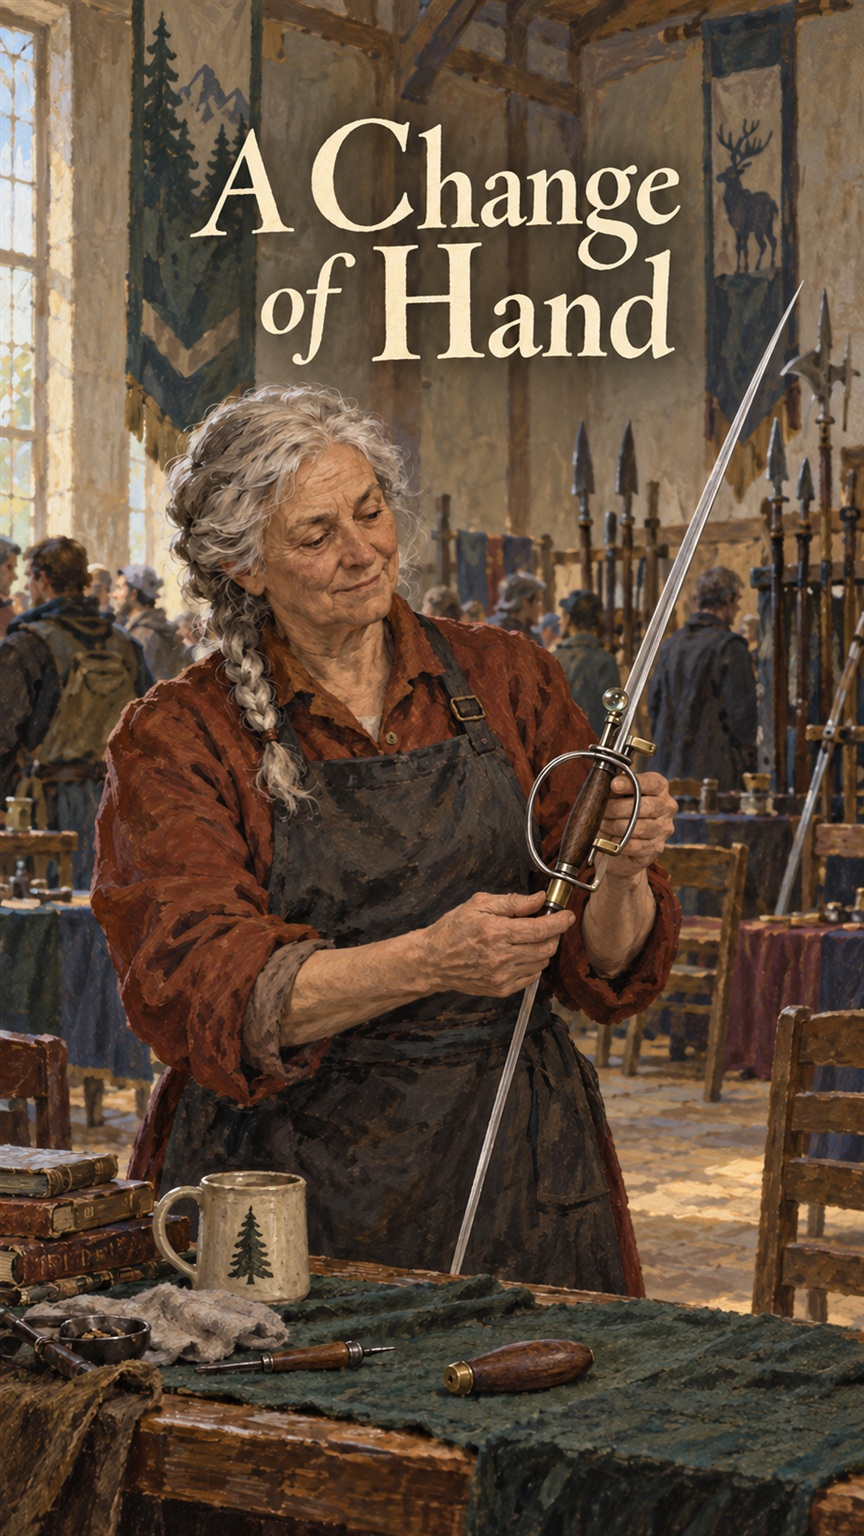
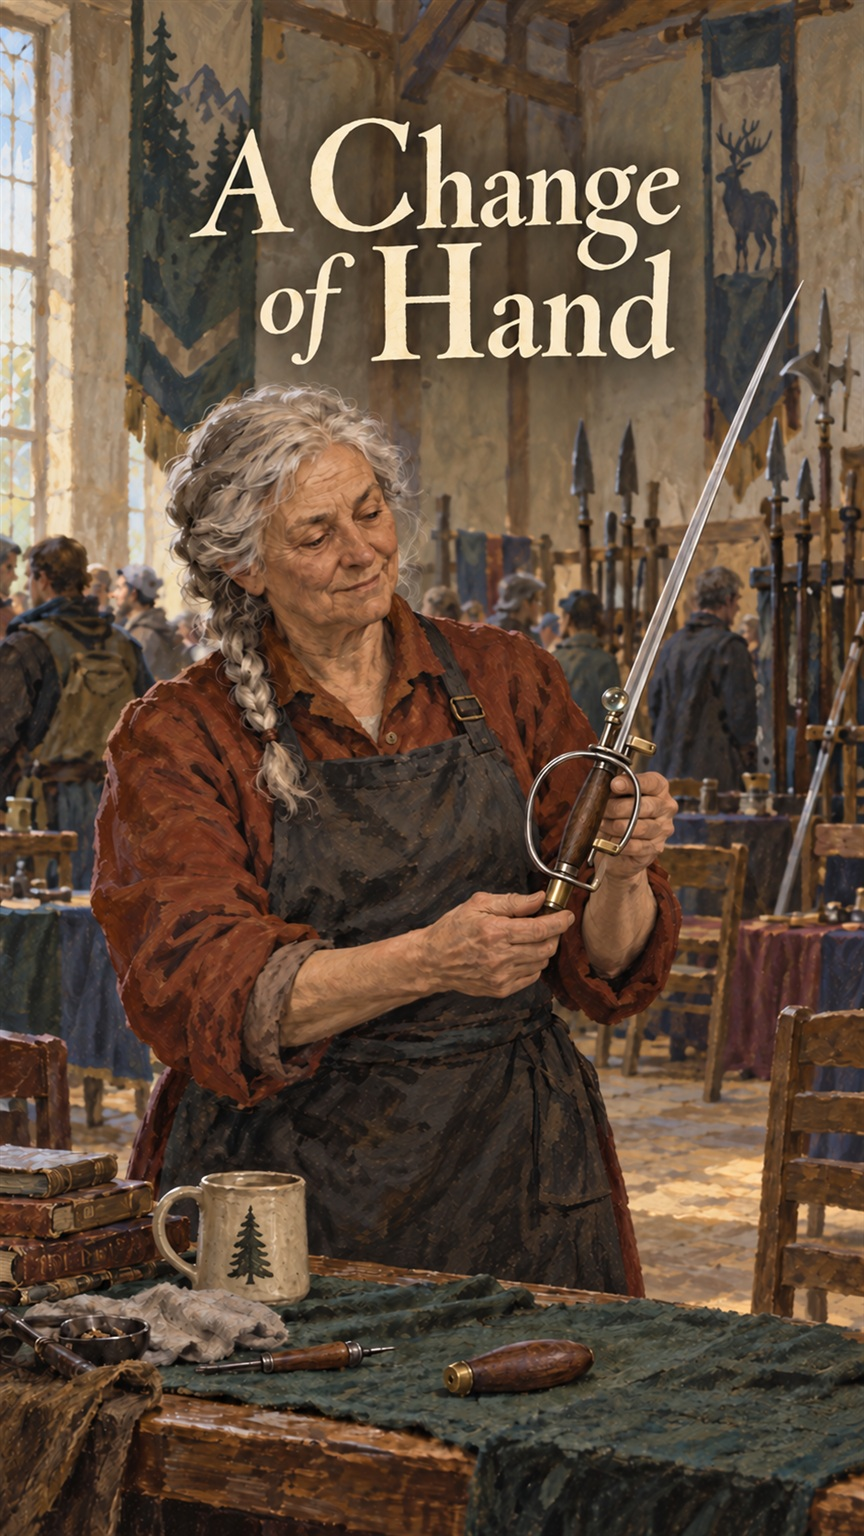
Correct doubled blade on A Change of Hand cover

diff --git a/stories/feast-of-the-noble-blades/notes.md b/stories/feast-of-the-noble-blades/notes.md
@@ -19,3 +19,5 @@ Fresh final first effects, preserved before exchange: new Codex cared about the 
 Final whole-story exchange: the writer accepted that Elska carrying Scathe to the bench could imply withholding. Both fresh readers received one another’s findings and tested the writer’s response. Before: “I know.” After: “I know. I’m staying for the bench.” The writer also reversed the supports explicitly for the registrar’s left hand and shortened Ildesse’s orientation, retaining thread, embodied voice, six paces, and two chairs. Both fresh readers reread the complete prose in context. Codex found the costly decision and observed teaching behavior a sufficient present basis for departure; more dissatisfaction history became a preference, not a repair. Claude found the clocks now “confirm a choice instead of having to carry it” and the condensed cameo no longer stopped the exchange. Coordinator judges this version ready: the convention is entertaining and causal, craft is useful with limits, Scathe owns the lost trial, and Elska’s professional future survives without erasing her hurt. The quieter view of Scathe’s anticipation is deliberate, with dissent examined rather than outvoted. Prompt and later user direction are fulfilled; names have no relevant universe/name-memory collision; hand, letter, grip, time, and travel continuity have been checked. *The Place Laid for Her* remains intact and both stories remain non-canon. No shared facts were promoted.
 
 Art and rating: inspected the saved cover, Elska’s multi-view sheet, and the selected hall correction. The cover’s exact title is legible once; the sheet retains the cover’s face, silver braid and work clothing in three full-body views and two expression studies, with readable story/character labels. The hall correction makes Rusha a woman in the patched blue teaching jacket and removes invented slogans and pets; its source painting is retained separately, with the selected file and full built-in imagegen prompts in `art/selection-notes.json`. Elska’s particular likeness and clothing are visual interpretation, not prose additions or canon facts. Final General classification considers the finished prose and selected cover together: aching hands, interpersonal hurt and departure, and gentle padded practice without injury. Accepted files are inside this package; drafts, CLI review sessions and export scratch remain under the worktree’s ignored `tmp/`.
+
+Cover correction, 2026-10-07: the user identified a second steel blade projecting from the bottom of Scathe's grip, which the initial art inspection had missed. A localized built-in imagegen edit removes that lower extension and restores the apron beneath Elska's hands, retaining the single upward blade, short walnut grip, brass pommel, character likeness, title and table props. Inspected both the generated correction and final 864x1536 JPEG; the doubled geometry is gone. The story remains unchanged, and General is reaffirmed for the prose and corrected cover together. The full correction prompt is retained in art/selection-notes.json.

diff --git a/stories/feast-of-the-noble-blades/ratings.md b/stories/feast-of-the-noble-blades/ratings.md
@@ -3,4 +3,4 @@
 - **Rating:** General
 - **Reason:** The finished prose and selected cover depict comic convention life, an affectionate but painful separation, and gentle fencing instruction suitable for all ages. The cover shows a craftsperson inspecting a rapier without threatening action.
 - **Content notes:** Stiff and aching hands; concealed correspondence and hurt within a longstanding partnership; brief padded fencing practice with a soft tap and no injury; departure and uncertainty.
-- **Reviewed:** 2026-10-07, after the final whole-story discussion, prose repairs, and inspection of the selected cover and reference art.
+- **Reviewed:** 2026-10-07, after the final whole-story discussion, prose repairs, and inspection of the selected cover and reference art. General reaffirmed after inspecting the corrected single-blade cover.

diff --git a/stories/feast-of-the-noble-blades/prompt.md b/stories/feast-of-the-noble-blades/prompt.md
@@ -7,3 +7,7 @@ Supplied reference images: none.
 Later user direction, verbatim:
 
 i think we could link this in after "The Place Laid for Her" and even include reference to blade in that story.
+
+Later cover correction, verbatim:
+
+the cover image blade is messed up and goes in both directions.
